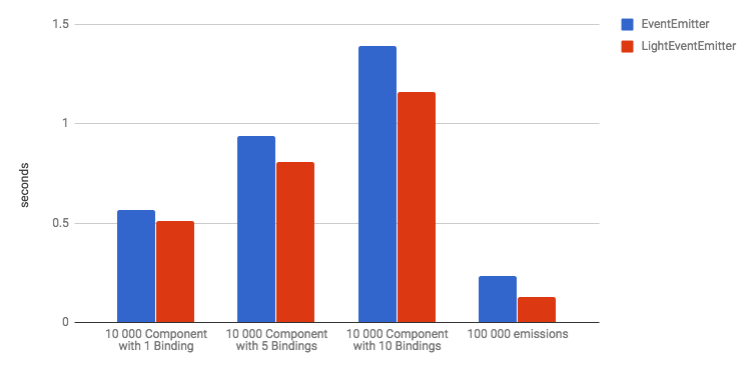
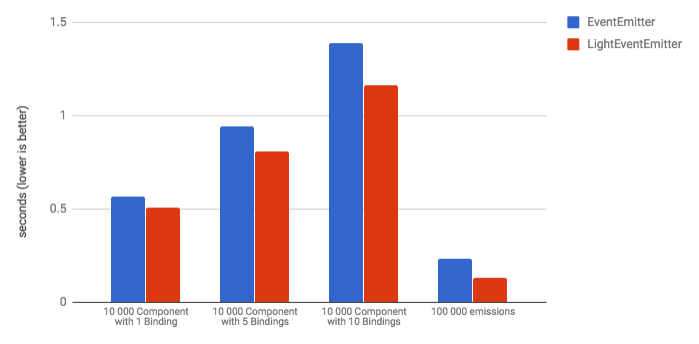
update images

Changed region(s): [[0.0, 0.1163, 0.7811, 0.9593], [0.8112, 0.0291, 0.9914, 0.1453], [0.0601, 0.0291, 0.0901, 0.0872]]

diff --git a/README.md b/README.md
@@ -47,6 +47,8 @@ The following image shows a typical result ran on dual core MacBook Pro (mid 201
 
 ![typical results](https://raw.githubusercontent.com/martinsik/light-event-emitter/master/doc/results-0.png)
 
+*(Lower number is better)*
+
 ![results in a bar chart](https://raw.githubusercontent.com/martinsik/light-event-emitter/master/doc/bar-chart.png)
 
 Tests with a large number of components are measured as time Angular spent creating, adding them to the page and creating bindings.
